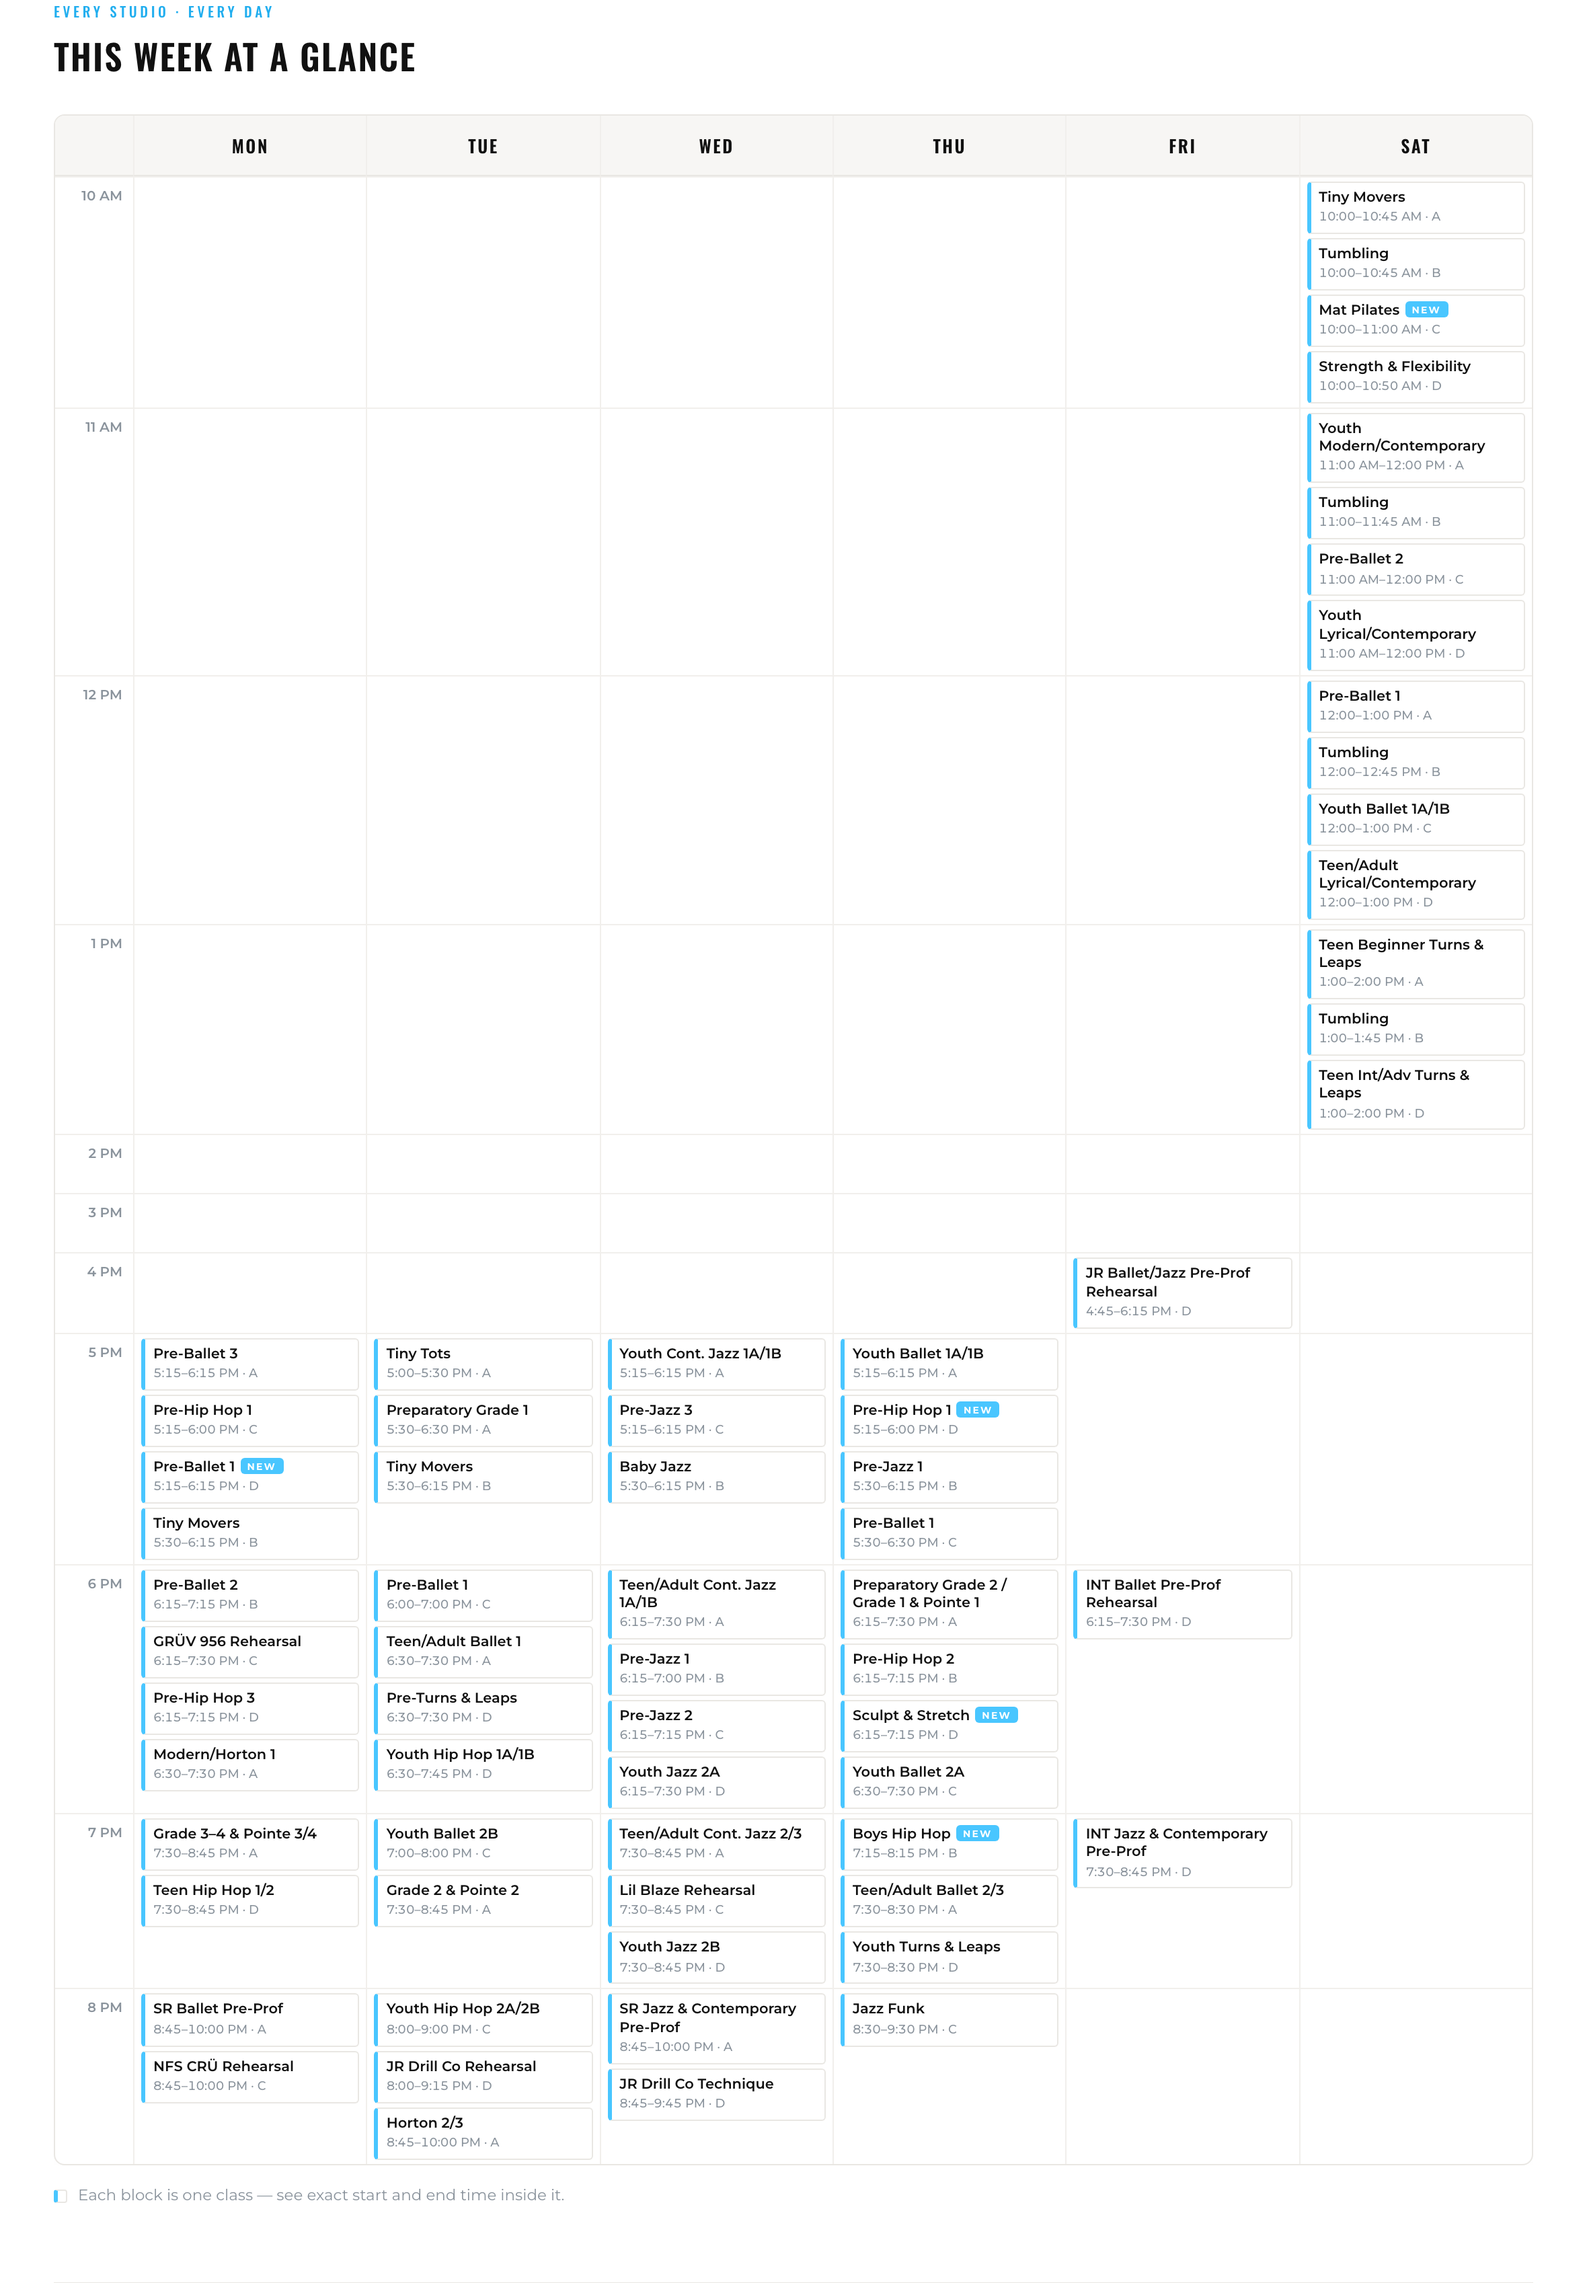
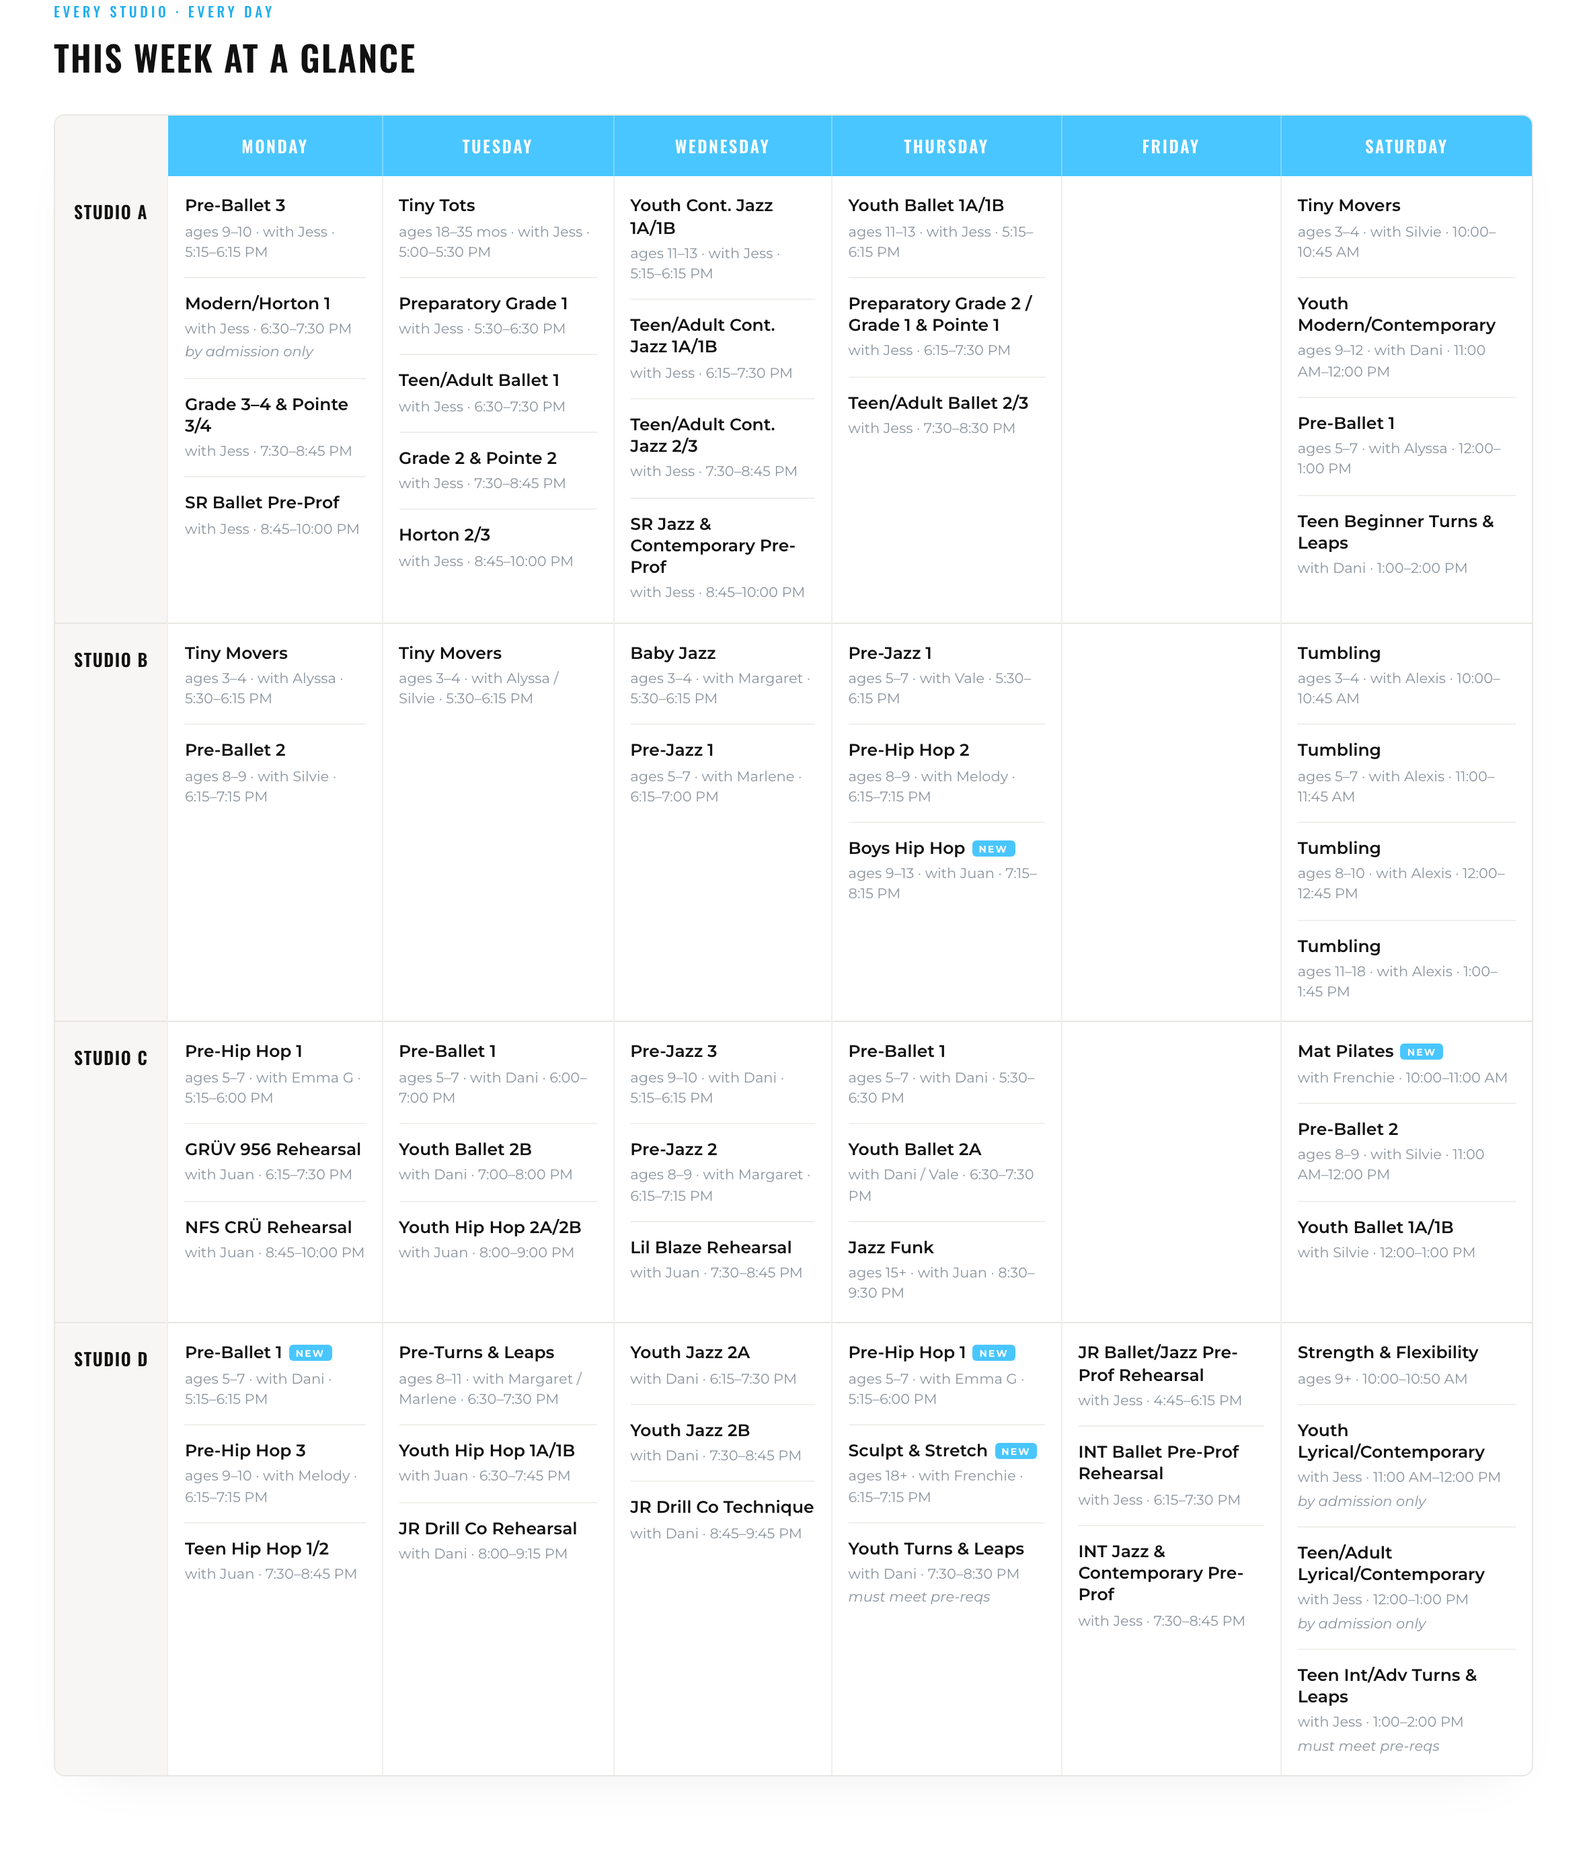
Rebuild weekly schedule as a Studio x Day table, matching the client's own format
Replaces the time-grid with a real table: Studio A-D as rows,
Monday-Saturday as columns, blue header bar — mirrors the studio's
existing printed schedule instead of inventing a new axis. Preview
image regenerated to match. Browse-by-day section unchanged.

diff --git a/index.html b/index.html
@@ -293,93 +293,86 @@ const EVENTS = [
   /* -------------------------------------------------------- weekly calendar grid */
   @keyframes rowIn{ to{ opacity:1; transform:translateY(0); } }
 
-  .wk-wrap{ overflow-x:auto; -webkit-overflow-scrolling:touch; }
-  .wk-cal{
-    display:grid;
-    grid-template-columns: 58px repeat(6, minmax(128px, 1fr));
-    min-width:920px;
+  /* Studio × Day schedule table — mirrors the studio's own printed schedule format */
+  .studio-wrap{
+    overflow-x:auto;
+    -webkit-overflow-scrolling:touch;
     border:1px solid var(--line);
     border-radius:8px;
-    overflow:hidden;
     box-shadow:0 16px 40px -24px rgba(17,17,17,.10);
   }
-  .wk-corner,
-  .wk-day-head{
-    background:var(--panel);
-    border-bottom:1px solid var(--line);
-    padding:12px 8px;
-    text-align:center;
+  table.studio-table{
+    width:100%;
+    min-width:940px;
+    border-collapse:collapse;
   }
-  .wk-day-head{
+  .studio-table thead th{
+    background:var(--blue);
+    color:#fff;
+    font-family:var(--oswald);
+    font-weight:600;
+    font-size:12.5px;
+    letter-spacing:.1em;
+    text-transform:uppercase;
+    padding:13px 10px;
+    text-align:center;
+    border-left:1px solid rgba(255,255,255,.28);
+  }
+  .studio-table thead th:first-child{
+    background:var(--panel);
+    border-left:none;
+  }
+  .studio-table tbody th.studio-label{
+    background:var(--panel);
+    color:var(--ink);
     font-family:var(--oswald);
     font-weight:600;
     font-size:13px;
-    letter-spacing:.1em;
+    letter-spacing:.06em;
     text-transform:uppercase;
-    border-left:1px solid var(--line-soft);
-  }
-  .wk-time{
-    font-size:10px;
-    font-weight:600;
-    color:var(--muted);
-    text-align:right;
-    padding:6px 8px 0 0;
+    text-align:left;
+    vertical-align:top;
+    padding:16px 14px;
     white-space:nowrap;
-    border-top:1px solid var(--line-soft);
+    border-top:1px solid var(--line);
   }
-  .wk-row-top .wk-time{ border-top:none; }
-  .wk-cell{
-    min-height:44px;
-    padding:3px 5px;
-    border-top:1px solid var(--line-soft);
+  .studio-table tbody td{
+    padding:14px 12px;
+    vertical-align:top;
+    border-top:1px solid var(--line);
     border-left:1px solid var(--line-soft);
-    display:flex;
-    flex-direction:column;
-    gap:3px;
+    min-width:140px;
   }
-  .wk-row-top .wk-cell{ border-top:none; }
+  .studio-table tbody tr:first-child th,
+  .studio-table tbody tr:first-child td{ border-top:none; }
 
-  .wk-chip{
-    background:var(--ground);
-    border:1px solid var(--line);
-    border-left:3px solid var(--blue);
-    border-radius:3px;
-    padding:4px 6px 5px;
+  .se-entry{
     opacity:0;
     transform:translateY(4px);
     animation:rowIn .35s ease forwards;
   }
-  .wk-chip-name{
-    font-size:10.5px;
+  .se-entry + .se-entry{
+    margin-top:11px;
+    padding-top:11px;
+    border-top:1px solid var(--line-soft);
+  }
+  .se-name{
+    font-size:12.5px;
     font-weight:600;
     color:var(--ink);
-    line-height:1.25;
+    line-height:1.3;
   }
-  .wk-chip-name .badge-new{ font-size:7px; padding:2px 5px 1px; margin-left:4px; vertical-align:1px; }
-  .wk-chip-meta{
-    font-size:9px;
-    font-weight:500;
+  .se-name .badge-new{ font-size:7px; padding:2px 5px 1px; margin-left:5px; vertical-align:1px; }
+  .se-meta{
+    font-size:10.5px;
     color:var(--muted);
-    font-variant-numeric:tabular-nums;
-    margin-top:1px;
-    white-space:nowrap;
+    margin-top:3px;
+    line-height:1.45;
   }
-
-  .wk-legend{
-    display:flex;
-    align-items:center;
-    gap:8px;
-    margin-top:14px;
-    font-size:11.5px;
-    color:var(--muted);
-  }
-  .wk-legend .swatch{
-    width:10px; height:10px;
-    border-radius:2px;
-    background:var(--ground);
-    border:1px solid var(--line);
-    border-left:3px solid var(--blue);
-    display:inline-block;
+  .se-meta .note{
+    font-style:italic;
+    display:block;
+    margin-top:2px;
   }
 
   /* --------------------------------------------------------------- day rail */
@@ -774,7 +767,7 @@ const EVENTS = [
 
   @media (prefers-reduced-motion: reduce){
     *{ animation-duration:.01ms !important; transition-duration:.01ms !important; }
-    .class-row, .week-card, .mg, .event-row{ opacity:1; transform:none; }
+    .class-row, .se-entry, .mg, .event-row{ opacity:1; transform:none; }
   }
 
   /* ============================================================ PREVIEW (first view) */
@@ -933,7 +926,7 @@ const EVENTS = [
 
   <div class="preview-grid">
     <figure class="preview-frame">
-      <img src="assets/preview-weekly.png" alt="Preview of the LSCD weekly calendar grid, Monday through Saturday, every studio and class time" width="1180" height="1697" loading="eager">
+      <img src="assets/preview-weekly.png" alt="Preview of the LSCD weekly class schedule, Studio A through D by day, Monday through Saturday" width="1180" height="1377" loading="eager">
       <figcaption class="preview-cap">
         <span class="preview-cap-title">This Week At A Glance</span>
         <span class="preview-cap-note">All studios · Mon–Sat</span>
@@ -1089,54 +1082,40 @@ const EVENTS = [
       .sort(function(a, b){ return a.start - b.start || (a.studio < b.studio ? -1 : 1); });
   }
 
-  /* ---------------- glance grid: a real calendar grid, time × day ---------------- */
-  function fmtHourLabel(h){
-    var h12 = ((h + 11) % 12) + 1;
-    return h12 + (h >= 12 ? " PM" : " AM");
+  /* ---------------- studio × day schedule table ---------------- */
+  var STUDIOS = ["A", "B", "C", "D"];
+
+  function entryHTML(c, i){
+    var meta = [];
+    if (c.ages)    meta.push(esc(c.ages));
+    if (c.teacher) meta.push("with " + esc(c.teacher));
+    meta.push(fmtRange(c.start, c.end));
+    var metaStr = meta.join(" · ");
+    var noteStr = c.note ? '<span class="note">' + esc(c.note) + '</span>' : "";
+    return '<div class="se-entry" style="animation-delay:' + Math.min(i * 30, 300) + 'ms">' +
+      '<div class="se-name">' + esc(c.name) + (c.isNew ? '<span class="badge-new">New</span>' : "") + '</div>' +
+      '<div class="se-meta">' + metaStr + noteStr + '</div>' +
+    '</div>';
   }
 
   function renderGlance(){
-    var starts = SCHEDULE.map(function(c){ return c.start; });
-    var minHour = Math.floor(Math.min.apply(null, starts));
-    var maxHour = Math.floor(Math.max.apply(null, starts));
-    var hours = [];
-    for (var h = minHour; h <= maxHour; h++) hours.push(h);
+    var html = '<div class="studio-wrap"><table class="studio-table">' +
+      '<thead><tr><th></th>' +
+        DAYS.map(function(d){ return "<th>" + DAY_FULL[d] + "</th>"; }).join("") +
+      '</tr></thead><tbody>';
 
-    var byDayHour = {};
-    SCHEDULE.forEach(function(c){
-      var key = c.day + "|" + Math.floor(c.start);
-      (byDayHour[key] = byDayHour[key] || []).push(c);
-    });
-    // sort each hour bucket by exact start time, then studio
-    Object.keys(byDayHour).forEach(function(k){
-      byDayHour[k].sort(function(a, b){ return a.start - b.start || (a.studio < b.studio ? -1 : 1); });
-    });
-
-    var html = '<div class="wk-wrap"><div class="wk-cal">';
-
-    html += '<div class="wk-corner"></div>';
-    DAYS.forEach(function(d){
-      html += '<div class="wk-day-head">' + DAY_FULL[d].slice(0, 3) + '</div>';
-    });
-
-    hours.forEach(function(h, ri){
-      var rowCls = ri === 0 ? " wk-row-top" : "";
-      html += '<div class="wk-time' + rowCls + '">' + fmtHourLabel(h) + '</div>';
+    STUDIOS.forEach(function(s){
+      html += '<tr><th class="studio-label">Studio ' + s + '</th>';
       DAYS.forEach(function(d){
-        var list = byDayHour[d + "|" + h] || [];
-        html += '<div class="wk-cell' + rowCls + '">';
-        list.forEach(function(c, i){
-          html += '<div class="wk-chip" style="animation-delay:' + Math.min((ri * 6 + i) * 18, 500) + 'ms">' +
-            '<div class="wk-chip-name">' + esc(c.name) + (c.isNew ? '<span class="badge-new">New</span>' : "") + '</div>' +
-            '<div class="wk-chip-meta">' + fmtRange(c.start, c.end) + ' · ' + c.studio + '</div>' +
-          '</div>';
-        });
-        html += '</div>';
+        var list = SCHEDULE
+          .filter(function(c){ return c.studio === s && c.day === d; })
+          .sort(function(a, b){ return a.start - b.start; });
+        html += '<td>' + list.map(entryHTML).join("") + '</td>';
       });
+      html += '</tr>';
     });
 
-    html += '</div></div>';
-    html += '<div class="wk-legend"><span class="swatch"></span> Each block is one class — see exact start and end time inside it.</div>';
+    html += '</tbody></table></div>';
     document.getElementById("glance-body").innerHTML = html;
   }
 

diff --git a/NOTES.md b/NOTES.md
@@ -124,6 +124,31 @@ screenshot this file's Weekly Calendar and School Year Calendar tabs at
 the `.section-divider`'s y-position (to exclude Browse-by-Day from the
 weekly poster), replace the two files in `assets/`.
 
+## Revision 4 — match the client's own schedule format
+
+2026-08-31, same day. Javier shared a screenshot of the client's real,
+currently-used schedule ("2026-2027 School Year Schedule Schedule" —
+Studio A/B/C/D as rows, Monday–Saturday as columns, blue header bar) with:
+> "I didn't like how it was designed at all ... doesn't look professional
+> ... I give you a reference. I think that's how she's doing it now ...
+> maybe something like this, you know, better?"
+
+This is a different axis than everything built so far (all prior views used
+day as the primary axis — tabs, day columns, or time rows). Rebuilt "This
+Week At A Glance" as a real `<table>`: Studio A–D as row headers (shaded
+panel column), Monday–Saturday as column headers (blue fill, matching the
+reference's header bar), each cell a stack of that studio's classes for
+that day — bold class name + NEW badge, muted meta line (ages · teacher ·
+time), italic note. Removed the time-grid entirely (`.wk-*` CSS/JS) —
+superseded, not layered on top of it.
+
+Regenerated `assets/preview-weekly.png` from this new table (same crop
+method as Revision 3) so the top-of-page picture preview matches what's
+actually below it. `assets/preview-year.png` unchanged.
+
+"Browse By Day" section stayed as-is below the table — never criticized,
+still useful for a single-day read-out.
+
 ## Lesson for `system/` (already folded in)
 
 Voice-dictated feedback with crossed-out self-corrections ("that's like...
